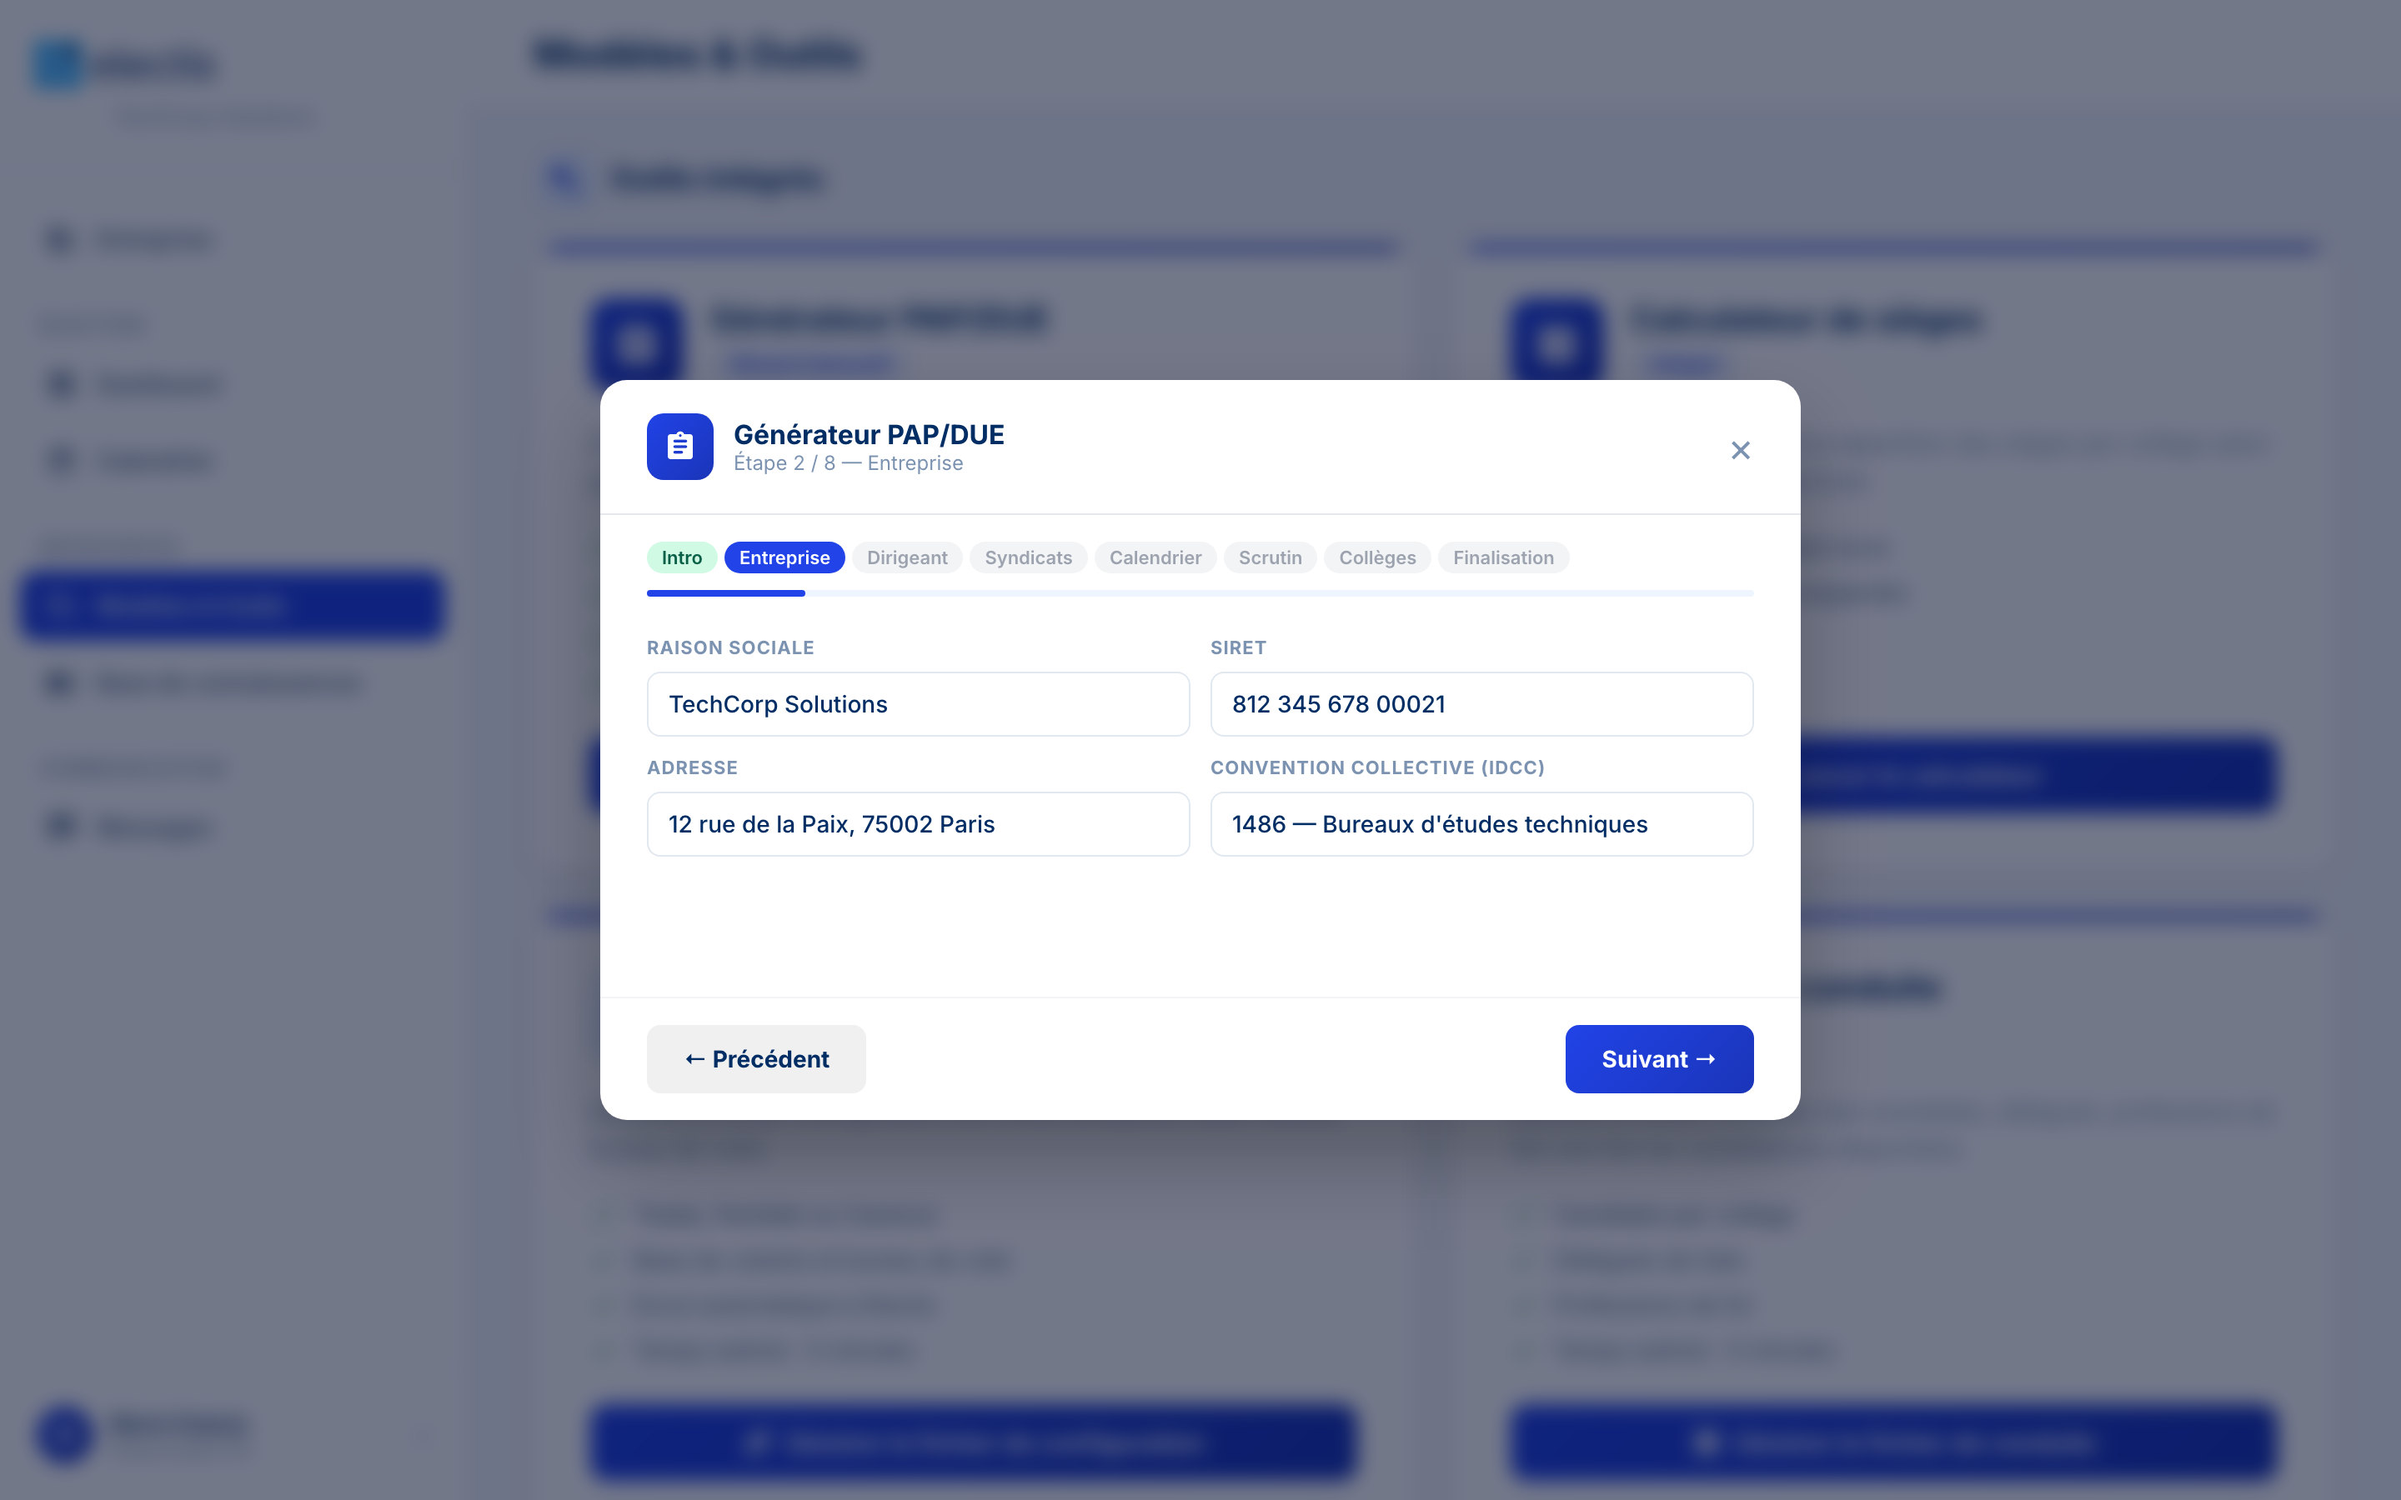
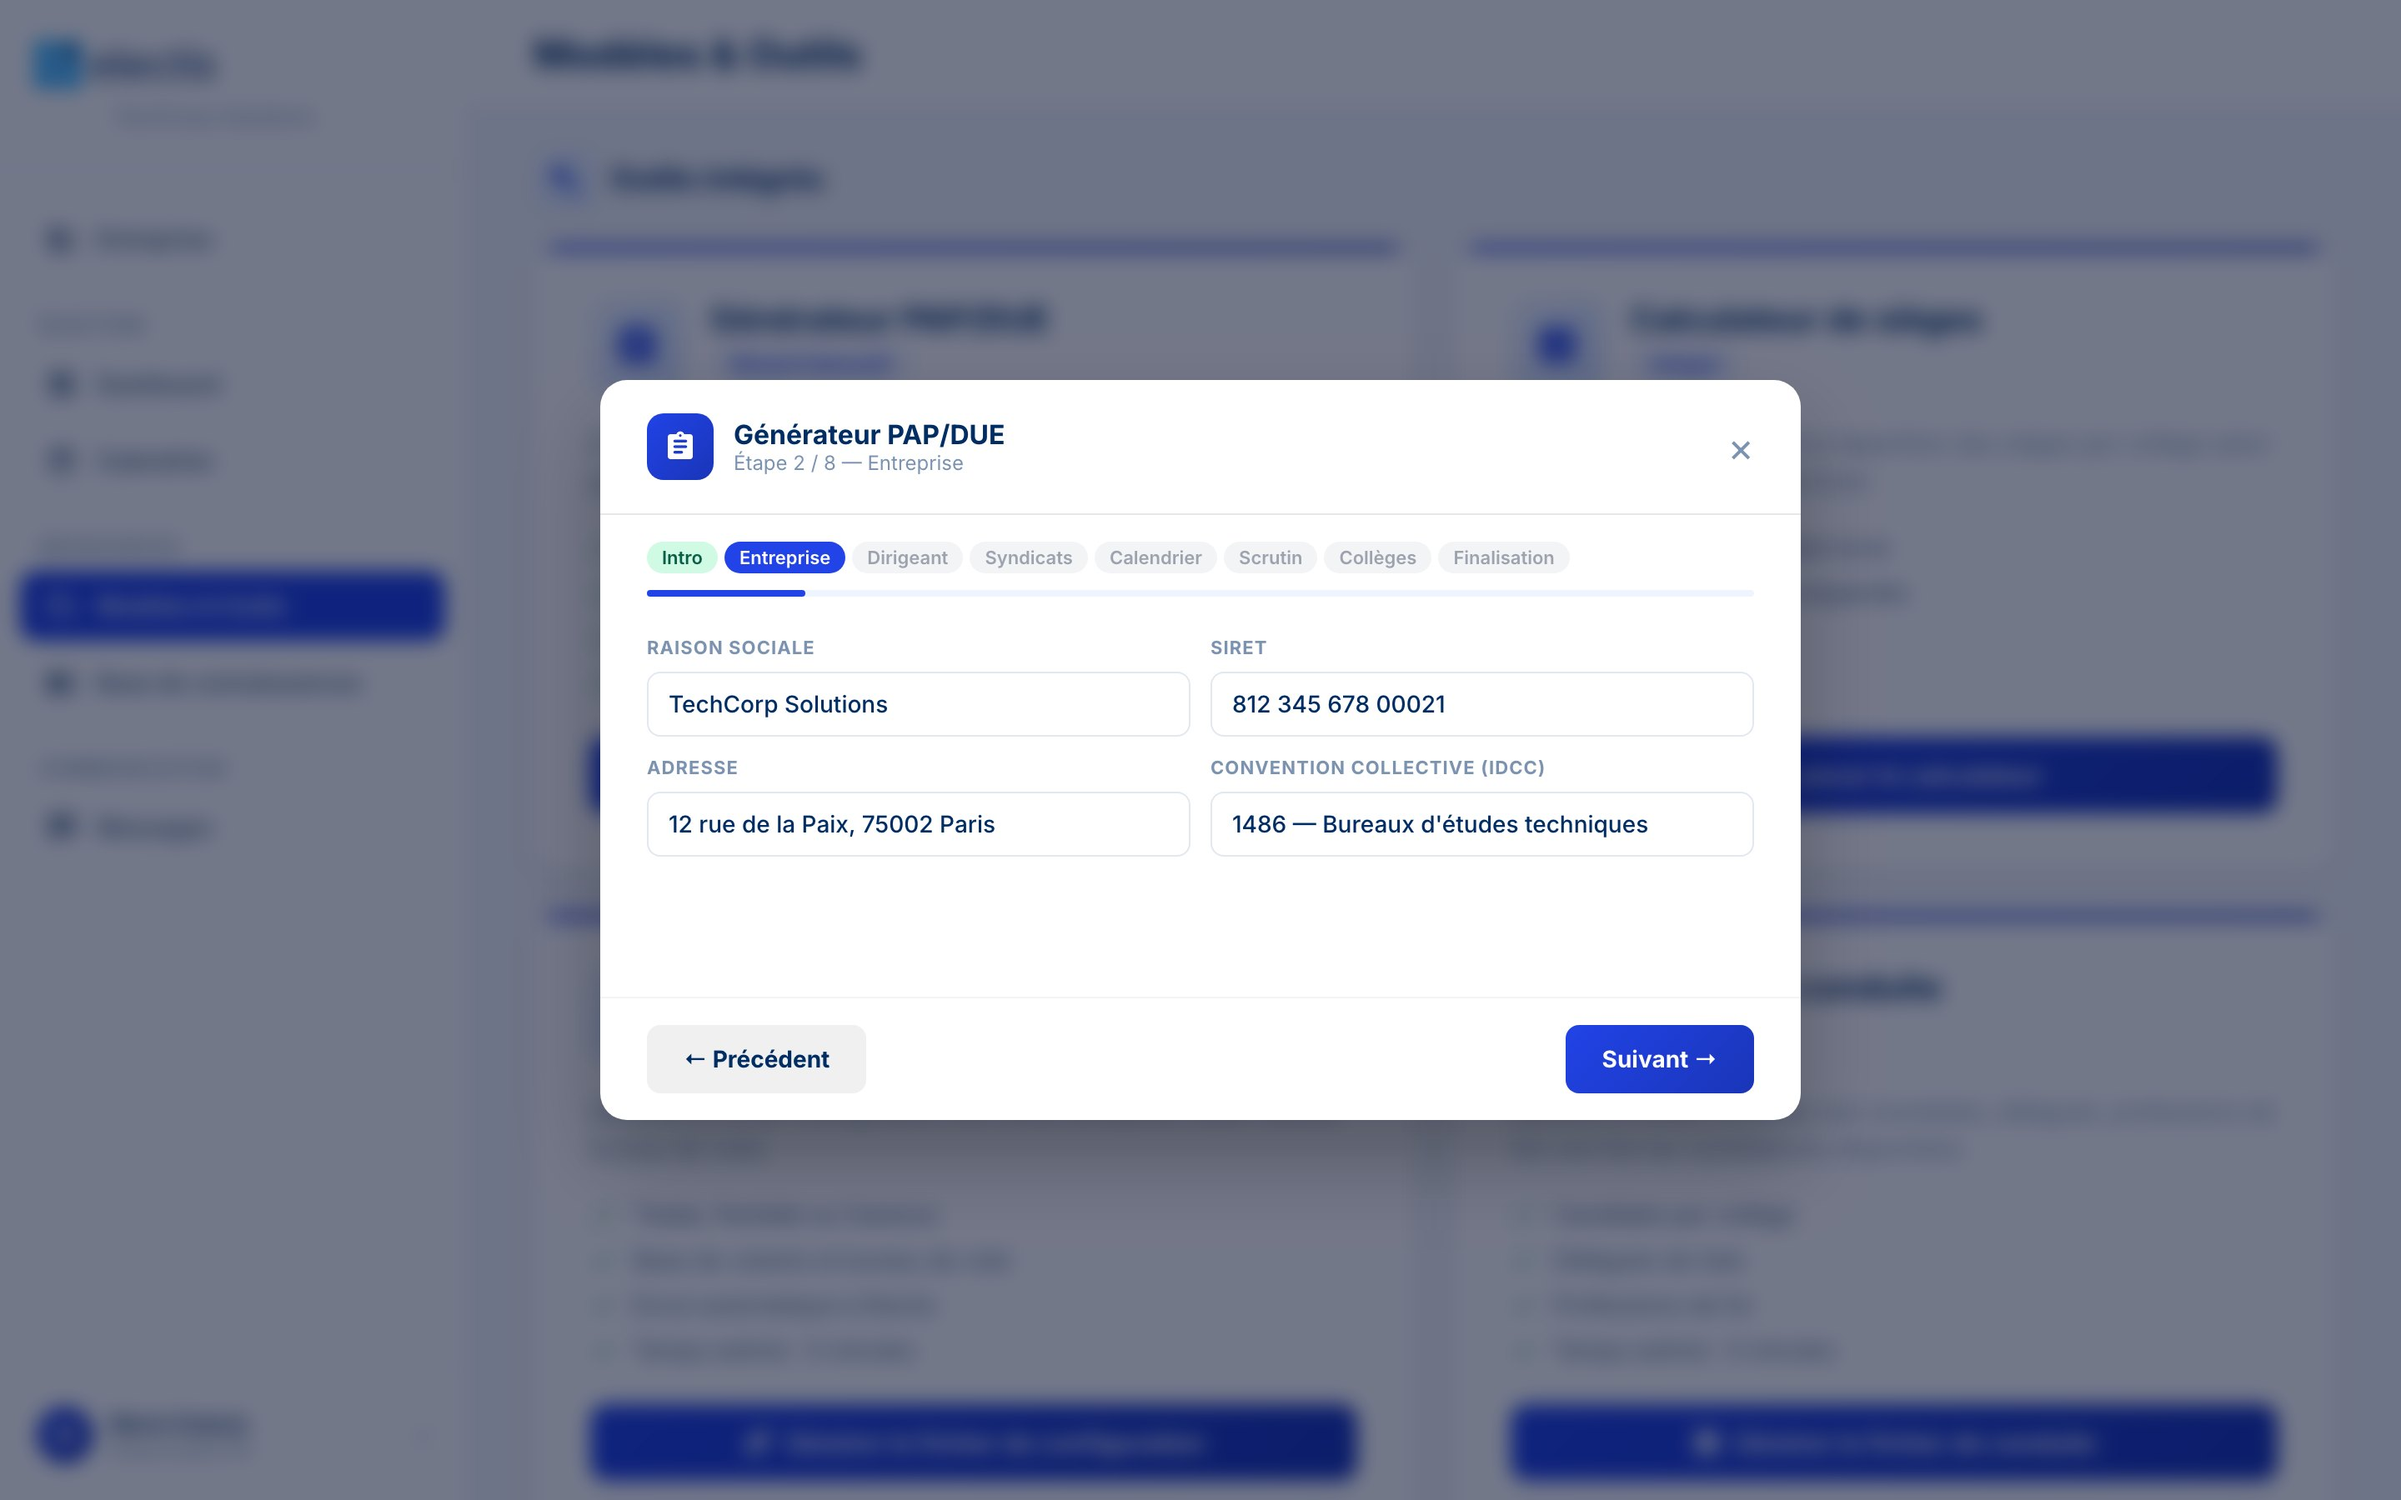
Capturas del dashboard al día, hover al 80 % e Instagram nuevo
- Electis dashboard: estado vacío, base de conocimiento y generador PAP/DUE recapturados
  desde la versión actual del prototipo
- Projects: capa lima del hover al 80 %
- Footer: Instagram masvale.jpg

Changed region(s): [[0.625, 0.1867, 0.6875, 0.28], [0.2188, 0.1867, 0.3125, 0.28]]

diff --git a/src/data/site.ts b/src/data/site.ts
@@ -70,8 +70,8 @@ export const links = [
     description: 'Explore more about my design and art direction past experience.',
   },
   {
-    label: 'Instagram.com/masvale.py',
-    href: 'https://www.instagram.com/masvale.py',
+    label: 'Instagram.com/masvale.jpg',
+    href: 'https://www.instagram.com/masvale.jpg',
     description: 'This is where I express myself through drawings.',
   },
 ];

diff --git a/content-review/site-copy.md b/content-review/site-copy.md
@@ -19,7 +19,7 @@ All the text on the site, page by page, in the order it appears. Edit the text d
 - **Email:** valefm93@gmail.com (after copying: "Copied!")
 - **LinkedIn:** linkedin.com/in/valefm93
 - **Behance:** Behance.net/valefm93
-- **Instagram:** Instagram.com/masvale.py
+- **Instagram:** Instagram.com/masvale.jpg
 - **Phone** (blurred), message on hover: Oops! Let’s start by email. Happy to share my number after!
 - **Location:** Paris, France
 
